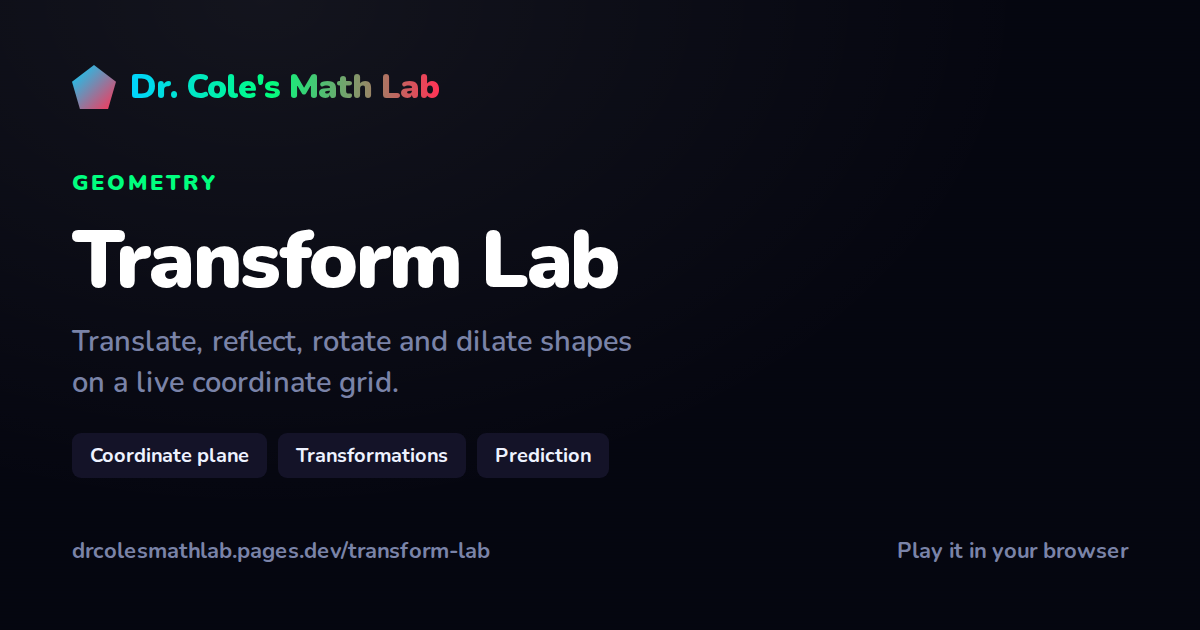
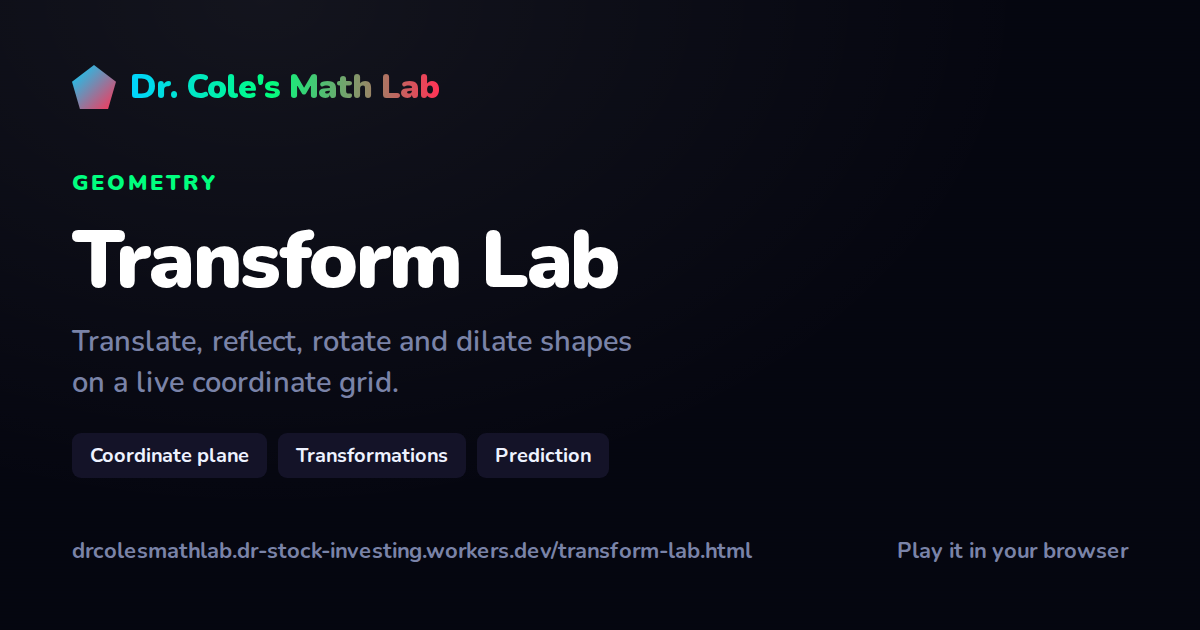
Lock down the Cloudflare Worker deploy; point the site at workers.dev
The dashboard created a Worker (not Pages). With no committed config,
`wrangler deploy` generated one serving the repo root with no ignore list,
which published .git/, tools/ and README.md as public files.

- wrangler.jsonc: pins the Worker name, static assets from the repo root,
  workers_dev on, preview URLs off, html_handling "none".
- .assetsignore: excludes .git, tools/, README.md, config and dot files,
  and .wrangler/ from the upload.
- _redirects: 200-rewrites / and /apps/tiger-trail/ to their index.html,
  since html_handling "none" doesn't map directories on its own.
  In a local wrangler dev test, Cloudflare's default redirect handling broke
  the embedded app frames and Tiger Trail's service worker.
- site.origin -> https://drcolesmathlab.dr-stock-investing.workers.dev;
  canonical URLs go back to the real .html paths; OG cards re-rendered.
- README: Worker setup replaces the Pages instructions.

Claude-Session: https://claude.ai/code/session_01G539GjbYawAa1eFxCdyKFT

Changed region(s): [[0.185, 0.8444, 0.6167, 0.9048]]

diff --git a/index.html b/index.html
@@ -6,20 +6,20 @@
 <title>Dr. Cole's Math Lab — interactive math you can actually use</title>
 
 <!-- META:START -->
-<link rel="canonical" href="https://drcolesmathlab.pages.dev/">
+<link rel="canonical" href="https://drcolesmathlab.dr-stock-investing.workers.dev/">
 <meta name="description" content="3 interactive math apps you can use right in the browser — no download, no sign-up, no tracking. Built by Dr. Cole.">
 <meta property="og:type" content="website">
 <meta property="og:site_name" content="Dr. Cole's Math Lab">
-<meta property="og:url" content="https://drcolesmathlab.pages.dev/">
+<meta property="og:url" content="https://drcolesmathlab.dr-stock-investing.workers.dev/">
 <meta property="og:title" content="Dr. Cole's Math Lab — interactive math you can actually use">
 <meta property="og:description" content="3 interactive math apps you can use right in the browser — no download, no sign-up, no tracking. Built by Dr. Cole.">
-<meta property="og:image" content="https://drcolesmathlab.pages.dev/assets/og-home.png">
+<meta property="og:image" content="https://drcolesmathlab.dr-stock-investing.workers.dev/assets/og-home.png">
 <meta property="og:image:width" content="1200">
 <meta property="og:image:height" content="630">
 <meta name="twitter:card" content="summary_large_image">
 <meta name="twitter:title" content="Dr. Cole's Math Lab — interactive math you can actually use">
 <meta name="twitter:description" content="3 interactive math apps you can use right in the browser — no download, no sign-up, no tracking. Built by Dr. Cole.">
-<meta name="twitter:image" content="https://drcolesmathlab.pages.dev/assets/og-home.png">
+<meta name="twitter:image" content="https://drcolesmathlab.dr-stock-investing.workers.dev/assets/og-home.png">
 <meta name="theme-color" media="(prefers-color-scheme: light)" content="#F7F8FA">
 <meta name="theme-color" media="(prefers-color-scheme: dark)" content="#060810">
 <!-- META:END -->

diff --git a/balancing-act.html b/balancing-act.html
@@ -6,20 +6,20 @@
 <title>Balancing Act — Dr. Cole's Math Lab</title>
 
 <!-- META:START -->
-<link rel="canonical" href="https://drcolesmathlab.pages.dev/balancing-act">
+<link rel="canonical" href="https://drcolesmathlab.dr-stock-investing.workers.dev/balancing-act.html">
 <meta name="description" content="Solve linear equations with a balance beam that reacts when you break the property of equality. Playable in the browser, no sign-up.">
 <meta property="og:type" content="website">
 <meta property="og:site_name" content="Dr. Cole's Math Lab">
-<meta property="og:url" content="https://drcolesmathlab.pages.dev/balancing-act">
+<meta property="og:url" content="https://drcolesmathlab.dr-stock-investing.workers.dev/balancing-act.html">
 <meta property="og:title" content="Balancing Act — Dr. Cole's Math Lab">
 <meta property="og:description" content="Solve linear equations with a balance beam that reacts when you break the property of equality. Playable in the browser, no sign-up.">
-<meta property="og:image" content="https://drcolesmathlab.pages.dev/assets/og-balancing-act.png">
+<meta property="og:image" content="https://drcolesmathlab.dr-stock-investing.workers.dev/assets/og-balancing-act.png">
 <meta property="og:image:width" content="1200">
 <meta property="og:image:height" content="630">
 <meta name="twitter:card" content="summary_large_image">
 <meta name="twitter:title" content="Balancing Act — Dr. Cole's Math Lab">
 <meta name="twitter:description" content="Solve linear equations with a balance beam that reacts when you break the property of equality. Playable in the browser, no sign-up.">
-<meta name="twitter:image" content="https://drcolesmathlab.pages.dev/assets/og-balancing-act.png">
+<meta name="twitter:image" content="https://drcolesmathlab.dr-stock-investing.workers.dev/assets/og-balancing-act.png">
 <meta name="theme-color" content="#050610">
 <!-- META:END -->
 

diff --git a/transform-lab.html b/transform-lab.html
@@ -6,20 +6,20 @@
 <title>Transform Lab — Dr. Cole's Math Lab</title>
 
 <!-- META:START -->
-<link rel="canonical" href="https://drcolesmathlab.pages.dev/transform-lab">
+<link rel="canonical" href="https://drcolesmathlab.dr-stock-investing.workers.dev/transform-lab.html">
 <meta name="description" content="Drag shapes across a coordinate grid to explore translation, reflection, rotation and dilation. Playable in the browser, no sign-up.">
 <meta property="og:type" content="website">
 <meta property="og:site_name" content="Dr. Cole's Math Lab">
-<meta property="og:url" content="https://drcolesmathlab.pages.dev/transform-lab">
+<meta property="og:url" content="https://drcolesmathlab.dr-stock-investing.workers.dev/transform-lab.html">
 <meta property="og:title" content="Transform Lab — Dr. Cole's Math Lab">
 <meta property="og:description" content="Drag shapes across a coordinate grid to explore translation, reflection, rotation and dilation. Playable in the browser, no sign-up.">
-<meta property="og:image" content="https://drcolesmathlab.pages.dev/assets/og-transform-lab.png">
+<meta property="og:image" content="https://drcolesmathlab.dr-stock-investing.workers.dev/assets/og-transform-lab.png">
 <meta property="og:image:width" content="1200">
 <meta property="og:image:height" content="630">
 <meta name="twitter:card" content="summary_large_image">
 <meta name="twitter:title" content="Transform Lab — Dr. Cole's Math Lab">
 <meta name="twitter:description" content="Drag shapes across a coordinate grid to explore translation, reflection, rotation and dilation. Playable in the browser, no sign-up.">
-<meta name="twitter:image" content="https://drcolesmathlab.pages.dev/assets/og-transform-lab.png">
+<meta name="twitter:image" content="https://drcolesmathlab.dr-stock-investing.workers.dev/assets/og-transform-lab.png">
 <meta name="theme-color" content="#050610">
 <!-- META:END -->
 

diff --git a/tiger-trail.html b/tiger-trail.html
@@ -6,20 +6,20 @@
 <title>Tiger Trail: Jungle Math Runner — Dr. Cole's Math Lab</title>
 
 <!-- META:START -->
-<link rel="canonical" href="https://drcolesmathlab.pages.dev/tiger-trail">
+<link rel="canonical" href="https://drcolesmathlab.dr-stock-investing.workers.dev/tiger-trail.html">
 <meta name="description" content="A 3D endless runner that drills multiples and factors. Playable in the browser, no sign-up.">
 <meta property="og:type" content="website">
 <meta property="og:site_name" content="Dr. Cole's Math Lab">
-<meta property="og:url" content="https://drcolesmathlab.pages.dev/tiger-trail">
+<meta property="og:url" content="https://drcolesmathlab.dr-stock-investing.workers.dev/tiger-trail.html">
 <meta property="og:title" content="Tiger Trail: Jungle Math Runner — Dr. Cole's Math Lab">
 <meta property="og:description" content="A 3D endless runner that drills multiples and factors. Playable in the browser, no sign-up.">
-<meta property="og:image" content="https://drcolesmathlab.pages.dev/assets/og-tiger-trail.png">
+<meta property="og:image" content="https://drcolesmathlab.dr-stock-investing.workers.dev/assets/og-tiger-trail.png">
 <meta property="og:image:width" content="1200">
 <meta property="og:image:height" content="630">
 <meta name="twitter:card" content="summary_large_image">
 <meta name="twitter:title" content="Tiger Trail: Jungle Math Runner — Dr. Cole's Math Lab">
 <meta name="twitter:description" content="A 3D endless runner that drills multiples and factors. Playable in the browser, no sign-up.">
-<meta name="twitter:image" content="https://drcolesmathlab.pages.dev/assets/og-tiger-trail.png">
+<meta name="twitter:image" content="https://drcolesmathlab.dr-stock-investing.workers.dev/assets/og-tiger-trail.png">
 <meta name="theme-color" content="#050610">
 <!-- META:END -->
 

diff --git a/tools/og-cards.html b/tools/og-cards.html
@@ -77,7 +77,7 @@
     <p class="sub">Playable in the browser. No download, no sign-up, no tracking.</p>
   </div>
   <div class="layer foot">
-    <span class="note">drcolesmathlab.pages.dev</span>
+    <span class="note">drcolesmathlab.dr-stock-investing.workers.dev</span>
     <span class="note">Geometry · Algebra · Number sense</span>
   </div>
 </article>
@@ -95,7 +95,7 @@
     </div>
   </div>
   <div class="layer foot">
-    <span class="note">drcolesmathlab.pages.dev/transform-lab</span>
+    <span class="note">drcolesmathlab.dr-stock-investing.workers.dev/transform-lab.html</span>
     <span class="note">Play it in your browser</span>
   </div>
 </article>
@@ -113,7 +113,7 @@
     </div>
   </div>
   <div class="layer foot">
-    <span class="note">drcolesmathlab.pages.dev/tiger-trail</span>
+    <span class="note">drcolesmathlab.dr-stock-investing.workers.dev/tiger-trail.html</span>
     <span class="note">Play it in your browser</span>
   </div>
 </article>
@@ -131,7 +131,7 @@
     </div>
   </div>
   <div class="layer foot">
-    <span class="note">drcolesmathlab.pages.dev/balancing-act</span>
+    <span class="note">drcolesmathlab.dr-stock-investing.workers.dev/balancing-act.html</span>
     <span class="note">Play it in your browser</span>
   </div>
 </article>

diff --git a/tools/apply-site-chrome.js b/tools/apply-site-chrome.js
@@ -139,11 +139,10 @@ function buildMeta(page) {
   // someone shared, LinkedIn canonicalises to the og:url and the shared link shows the
   // uglier variant.
   //
-  // App pages advertise the extensionless path. Cloudflare Pages 308-redirects
-  // /foo.html to /foo, so a canonical ending in .html would point at a redirect.
-  // GitHub Pages serves both forms, and in-page links keep .html so the site still
-  // works opened from disk.
-  const url = page.kind === 'home' ? `${origin}/` : `${origin}/${page.file.replace(/\.html$/, '')}`;
+  // App pages advertise the real file path (/foo.html). The Cloudflare Worker serves
+  // files at exactly their own path (html_handling "none" in wrangler.jsonc), so there
+  // is no extensionless form to canonicalise to.
+  const url = page.kind === 'home' ? `${origin}/` : `${origin}/${page.file}`;
   const img = `${origin}/assets/og-${page.ogSlug}.png`;
   return [
     `<link rel="canonical" href="${url}">`,

diff --git a/tools/site.config.js b/tools/site.config.js
@@ -18,11 +18,11 @@
 
 module.exports = {
   site: {
-    // Served by Cloudflare Pages (the canonical host) and also by GitHub Pages at
-    // drcolesmathlab.github.io, so links shared before the move keep working. Canonical,
-    // og:url and og:image all point here. If Cloudflare assigns a different project
-    // subdomain, change this and re-run the generator.
-    origin: 'https://drcolesmathlab.pages.dev',
+    // Served by a Cloudflare Worker (the canonical host; see wrangler.jsonc) and also by
+    // GitHub Pages at drcolesmathlab.github.io, so links shared before the move keep
+    // working. Canonical, og:url and og:image all point here. If a custom domain is
+    // attached to the Worker later, change this and re-run the generator.
+    origin: 'https://drcolesmathlab.dr-stock-investing.workers.dev',
     name: "Dr. Cole's Math Lab",
     wordmarkPre: "Dr. Cole's",
     wordmark: 'Math Lab',

diff --git a/README.md b/README.md
@@ -3,7 +3,7 @@
 A portfolio site for a set of interactive math apps. The point is that every app is
 **actually usable in the page** — not a screenshot, not a video, not an app-store link.
 
-Live at `https://drcolesmathlab.pages.dev` (Cloudflare Pages, canonical) and
+Live at `https://drcolesmathlab.dr-stock-investing.workers.dev` (Cloudflare Worker, canonical) and
 `https://drcolesmathlab.github.io` (GitHub Pages, kept so older links still work). See
 *Deploying* below.
 
@@ -43,7 +43,10 @@ tools/check-external.js     the no-external-origins gate
 tools/og-cards.html         card templates
 tools/build-og-cards.js     screenshots them into assets/
 .nojekyll                   stops Jekyll from reinterpreting anything
-_headers                    Cloudflare Pages response headers (GitHub Pages ignores it)
+_headers                    Cloudflare response headers (GitHub Pages ignores it)
+_redirects                  Cloudflare rewrites: / and apps/tiger-trail/ → their index.html
+wrangler.jsonc              Cloudflare Worker config (static assets, no script)
+.assetsignore               what the Worker must NOT publish — .git, tools/, README …
 ```
 
 ---
@@ -228,31 +231,47 @@ mode (white on `#60A5FA` was 2.54:1, now `#060810`). The mockup's decorative gre
 
 The same `main` branch is served two ways, with no build step:
 
-- **Cloudflare Pages: `https://drcolesmathlab.pages.dev` (canonical).** `site.origin` in
-  `tools/site.config.js` points here, so canonical, `og:url` and `og:image` all do too.
+- **Cloudflare Worker: `https://drcolesmathlab.dr-stock-investing.workers.dev`
+  (canonical).** `site.origin` in `tools/site.config.js` points here, so canonical,
+  `og:url` and `og:image` all do too. The Worker is static assets only — no script.
 - **GitHub Pages: `https://drcolesmathlab.github.io`.** Kept live so links shared before
   the move keep working.
 
-### One-time Cloudflare Pages setup
+### How the Cloudflare Worker is set up
 
-1. Cloudflare dashboard → **Workers & Pages** → **Create** → **Pages** → **Connect to Git**.
-   Authorise the Cloudflare GitHub app for `drcolesmathlab/drcolesmathlab.github.io`.
-2. Project name **`drcolesmathlab`**. If Cloudflare says it's taken and gives you
-   something like `drcolesmathlab-abc.pages.dev`, change `site.origin` to that, run
-   `node tools/apply-site-chrome.js`, and commit.
-3. Production branch **`main`**. Framework preset **None**. Build command **empty**.
-   Build output directory **`/`**. No environment variables.
-4. Save and deploy. Every push to `main` redeploys automatically. Other branches get
-   preview URLs.
+The dashboard project (**Workers & Pages → drcolesmathlab**) is connected to this repo
+and redeploys on every push to `main`. Build settings: **no build command**, deploy
+command **`npx wrangler deploy`**. Everything else lives in committed files:
 
-Two Cloudflare behaviours to know:
+- **`wrangler.jsonc`** — Worker name `drcolesmathlab` (must match the dashboard), assets
+  served from the repo root, `workers_dev` on, **preview URLs off**. Without this file,
+  `wrangler deploy` generates its own config on the build machine — and that generated
+  config is what published `.git/` as public files on the very first deploy.
+- **`.assetsignore`** — because the Worker serves the repo root, *anything not listed
+  here is public*. It excludes `.git`, `tools/`, `README.md`, `wrangler.jsonc`, the dot
+  files and `.wrangler/`. **Never remove `.git` from it.** `LICENSE-apps.md` and
+  `assets/fonts/OFL-*.txt` are deliberately public (the OFL requires the licence to
+  travel with the fonts).
+- **`html_handling: "none"`** — every file is served at exactly its own path, with no
+  automatic `/foo.html → /foo` redirects. Cloudflare's default does redirect, and in a
+  local `wrangler dev` test that broke the embedded app frames and left Tiger Trail's
+  frame without a working service worker. The site's URLs are the real file paths, the
+  same as from disk and on GitHub Pages.
+- **`_redirects`** — with `html_handling: "none"` a directory URL doesn't map to its
+  `index.html` by itself, so `/` and `/apps/tiger-trail/` (which Tiger Trail's service
+  worker precaches) are rewritten — status `200`, not a redirect. If you add another app
+  with a service worker that caches `./`, add a line for it.
+- **`_headers`** — `nosniff`, a referrer policy, `SAMEORIGIN` framing, and revalidation
+  for `.html` and Tiger Trail's `sw.js`. Don't use `X-Frame-Options: DENY`; the app
+  pages frame their own apps.
 
-- **Cloudflare strips `.html`.** `/tiger-trail.html` 308-redirects to `/tiger-trail`. So
-  the generator writes extensionless canonical URLs for app pages, while in-page links
-  keep `.html` so the site still works opened from disk. GitHub Pages serves both forms.
-- **`_headers`** sets `nosniff`, a referrer policy, `SAMEORIGIN` framing, and
-  revalidation for `.html` and Tiger Trail's `sw.js`. Don't add `X-Frame-Options: DENY`,
-  because the app pages frame their own apps.
+To check a change the way Cloudflare will serve it, run `npx wrangler dev` from the repo
+root and open `http://localhost:8787`. `/.git/config`, `/tools/…` and `/README.md` must
+all be 404.
+
+**Custom domain later:** add it in the Worker's **Settings → Domains & Routes**, then set
+`site.origin` to it, run `node tools/apply-site-chrome.js`, update the URLs in
+`tools/og-cards.html`, re-render the cards and commit.
 
 Before sharing a new or changed URL, paste it into LinkedIn's Post Inspector to confirm
 the card renders. LinkedIn caches aggressively, so check before you share, not after.
